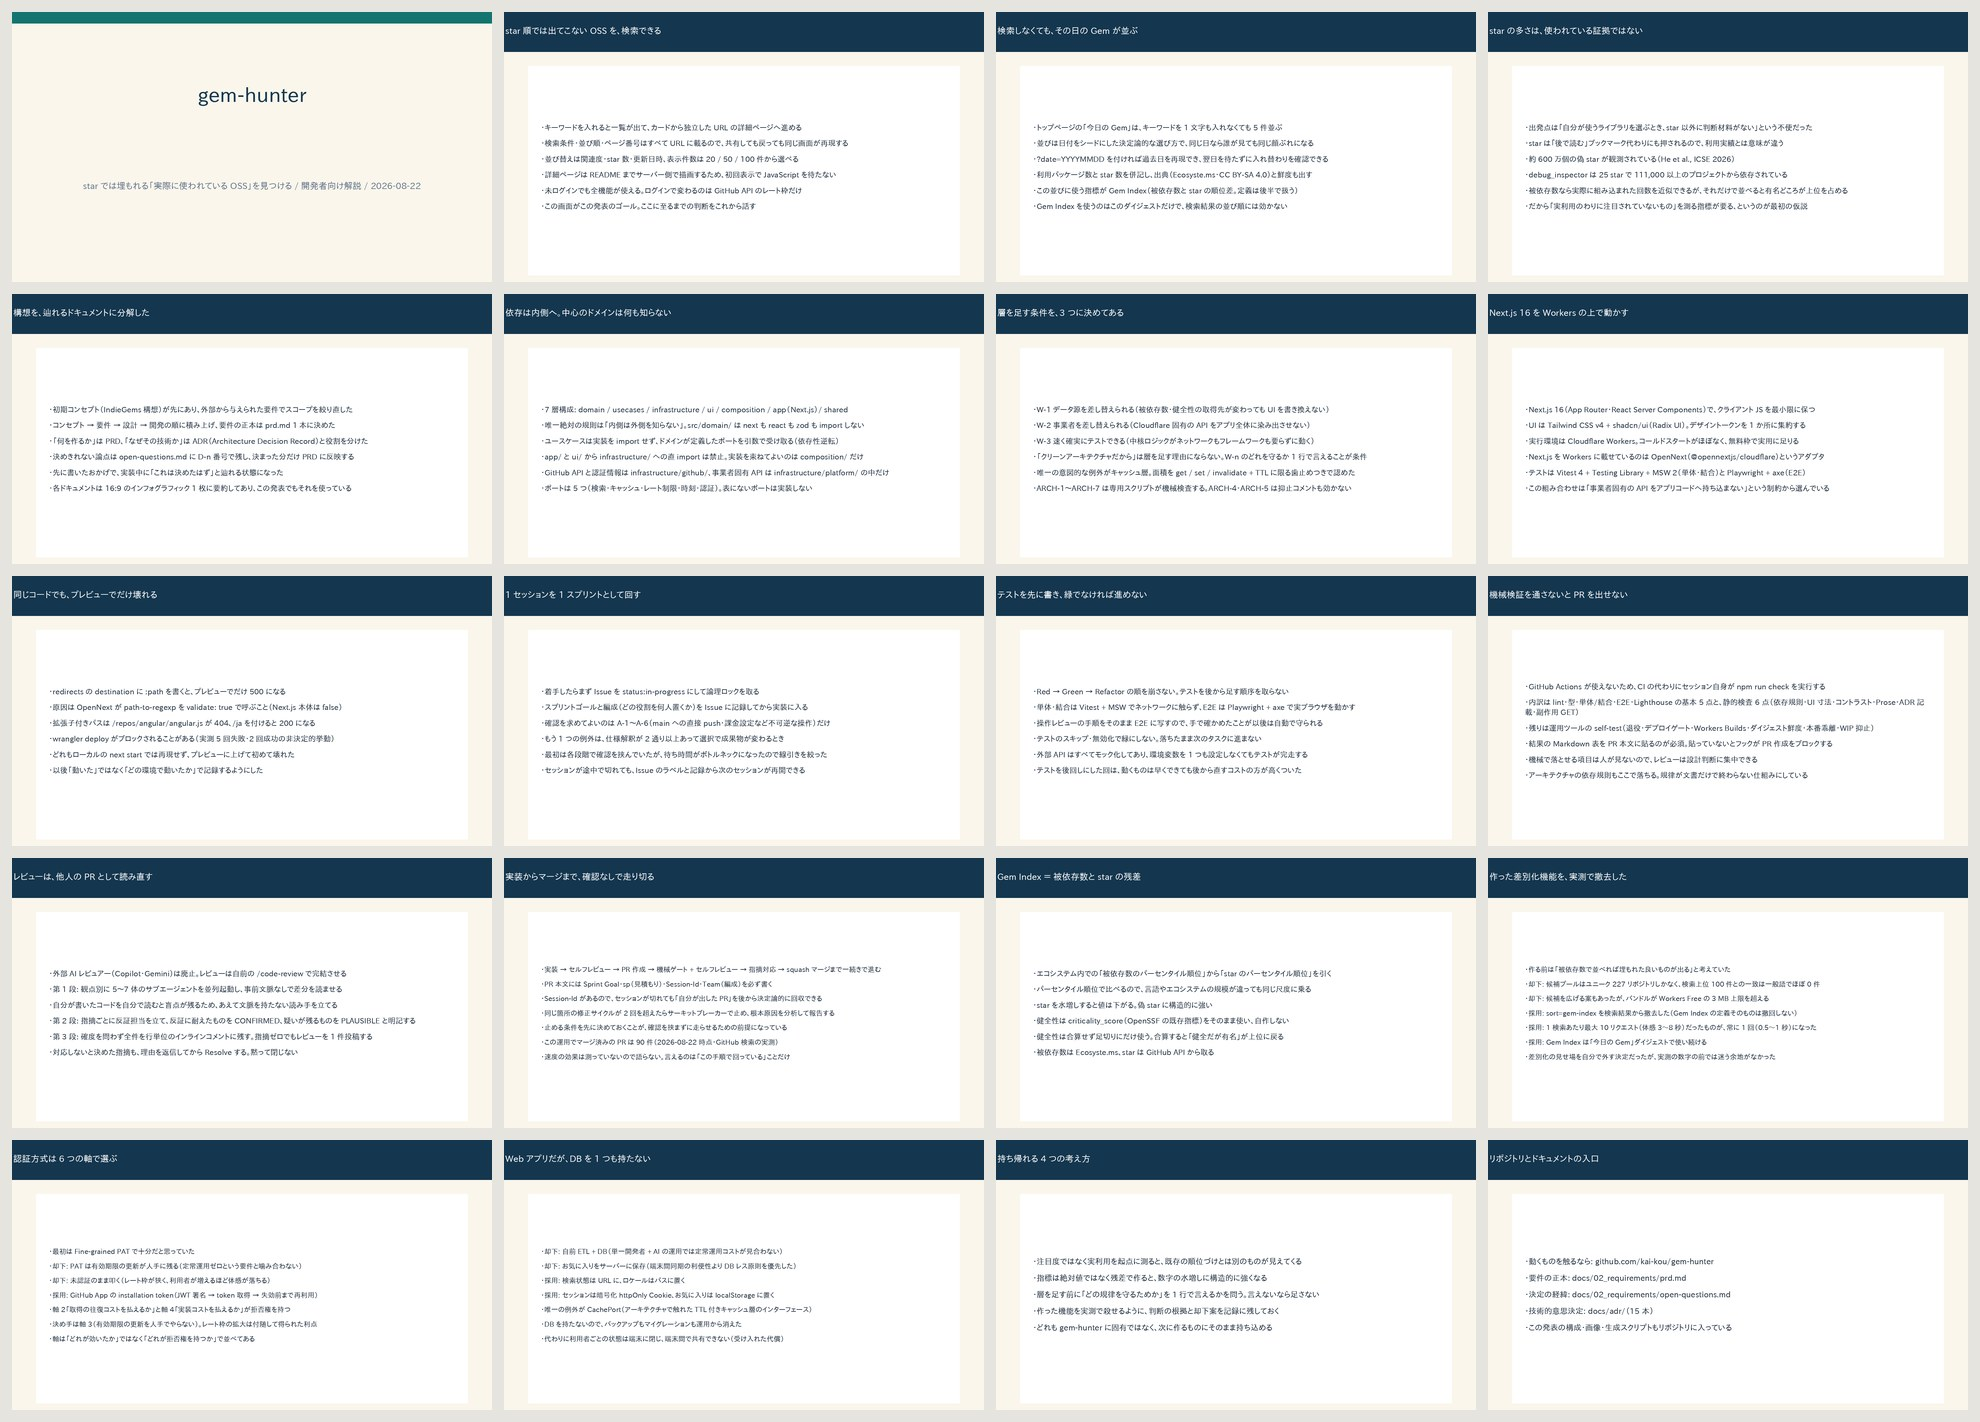
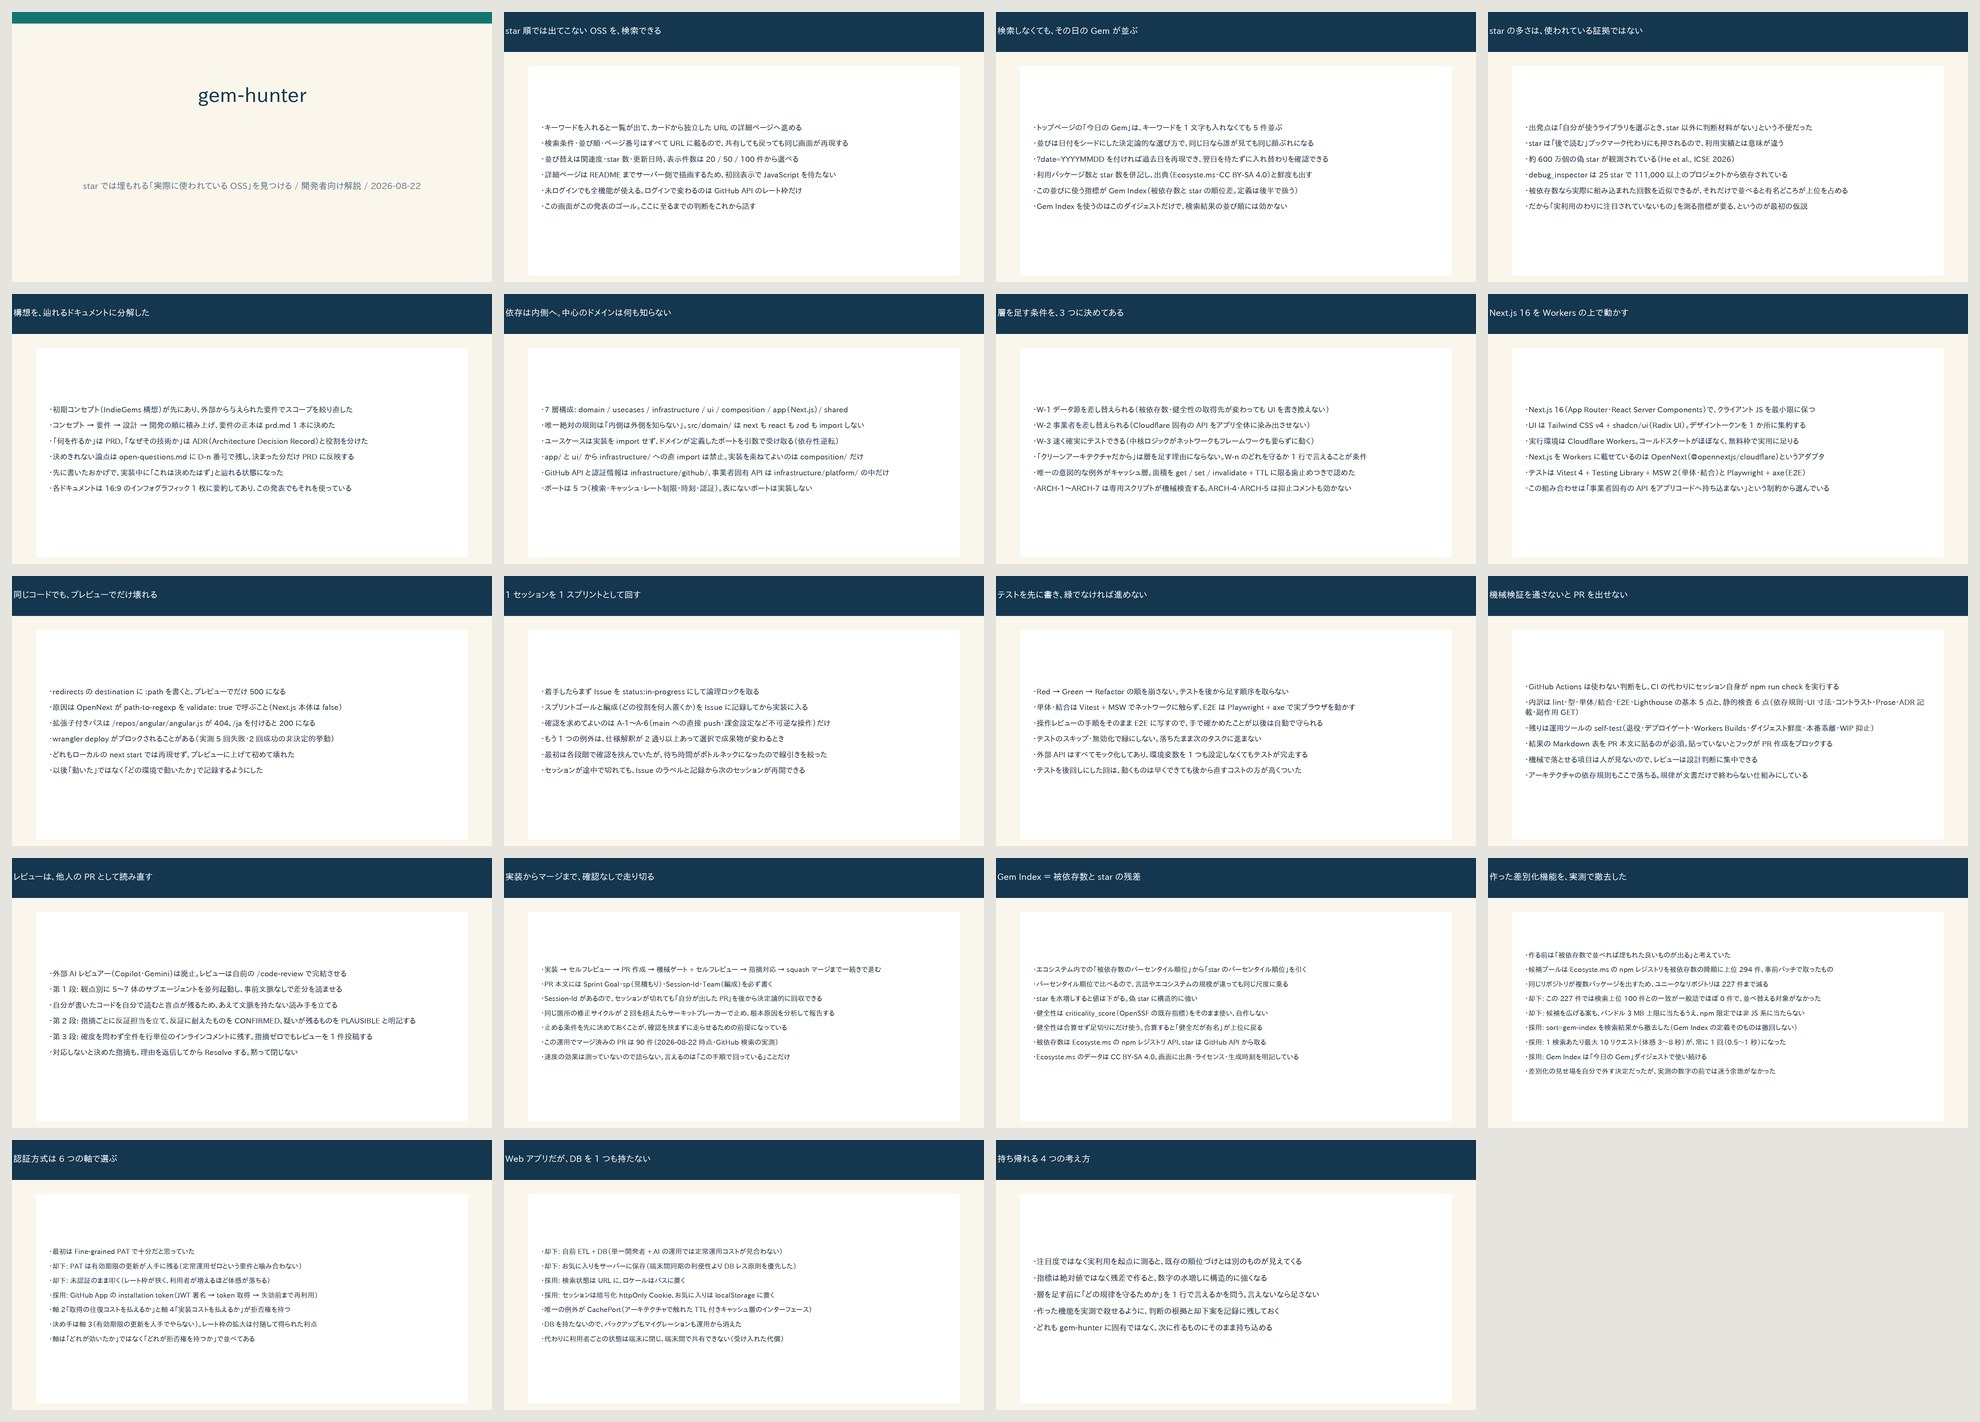
docs: テキスト版スライドにレビュー指摘 3 件を反映する（19 枚）
① GitHub Actions を「使えない」ではなく使わない判断として書く ② 被依存数の取得元（Ecosyste.ms の npm レジストリ API・事前バッチ上位 294 件）を明示し、ユニーク 227 リポジトリという母数がそこから導かれる流れにする ③ 最終ページ（リポジトリとドキュメントの入口）を削除。Google スライドは差し替え済み。

Changed region(s): [[0.7394, 0.8045, 1.0, 0.9902], [0.7702, 0.6498, 0.9242, 0.7736], [0.5237, 0.6807, 0.6778, 0.7426]]

diff --git a/content/slides/project-explanation-20260822/content/slides_content_gem-hunter.md b/content/slides/project-explanation-20260822/content/slides_content_gem-hunter.md
@@ -162,7 +162,7 @@
 
 - 見出し: 機械検証を通さないと PR を出せない
 - 本文:
-  - GitHub Actions が使えないため、CI の代わりにセッション自身が npm run check を実行する
+  - GitHub Actions は使わない判断をし、CI の代わりにセッション自身が npm run check を実行する
   - 内訳は lint・型・単体/結合・E2E・Lighthouse の基本 5 点と、静的検査 6 点（依存規則・UI 寸法・コントラスト・Prose・ADR 記載・副作用 GET）
   - 残りは運用ツールの self-test（退役・デプロイゲート・Workers Builds・ダイジェスト鮮度・本番乖離・WIP 抑止）
   - 結果の Markdown 表を PR 本文に貼るのが必須。貼っていないとフックが PR 作成をブロックする
@@ -210,25 +210,28 @@
   - star を水増しすると値は下がる。偽 star に構造的に強い
   - 健全性は criticality_score（OpenSSF の既存指標）をそのまま使い、自作しない
   - 健全性は合算せず足切りにだけ使う。合算すると「健全だが有名」が上位に戻る
-  - 被依存数は Ecosyste.ms、star は GitHub API から取る
+  - 被依存数は Ecosyste.ms の npm レジストリ API、star は GitHub API から取る
+  - Ecosyste.ms のデータは CC BY-SA 4.0。画面に出典・ライセンス・生成時刻を明記している
 - ビジュアル: 既存流用 docs/infographics/10-gem-score.webp
 - 伝えたい 1 メッセージ: 差別化ロジックの定義（直後の撤去話への助走）
-- 出典: ADR 0009 §2.1 / §3.1 / §3.2 / §3.3
+- 出典: ADR 0009 §2.1 / §2.2 / §3.1 / §3.2 / §3.3 / tools/generate_gem_digest.mjs / src/ui/attribution-notice.tsx
 
 ## Slide 16: 作った差別化機能を、実測で撤去した
 
 - 見出し: 作った差別化機能を、実測で撤去した
 - 本文:
   - 作る前は「被依存数で並べれば埋もれた良いものが出る」と考えていた
-  - 却下: 候補プールはユニーク 227 リポジトリしかなく、検索上位 100 件との一致は一般語でほぼ 0 件
-  - 却下: 候補を広げる案もあったが、バンドルが Workers Free の 3 MB 上限を超える
+  - 候補プールは Ecosyste.ms の npm レジストリを被依存数の降順に上位 294 件、事前バッチで取ったもの
+  - 同じリポジトリが複数パッケージを出すため、ユニークなリポジトリは 227 件まで減る
+  - 却下: この 227 件では検索上位 100 件との一致が一般語でほぼ 0 件で、並べ替える対象がなかった
+  - 却下: 候補を広げる案も、バンドル 3 MB 上限に当たるうえ、npm 限定では非 JS 系に当たらない
   - 採用: sort=gem-index を検索結果から撤去した（Gem Index の定義そのものは撤回しない）
-  - 採用: 1 検索あたり最大 10 リクエスト（体感 3〜8 秒）だったものが、常に 1 回（0.5〜1 秒）になった
+  - 採用: 1 検索あたり最大 10 リクエスト（体感 3〜8 秒）が、常に 1 回（0.5〜1 秒）になった
   - 採用: Gem Index は「今日の Gem」ダイジェストで使い続ける
   - 差別化の見せ場を自分で外す決定だったが、実測の数字の前では迷う余地がなかった
 - ビジュアル: 新規生成 new-06（採用 vs 却下）
 - 伝えたい 1 メッセージ: 技術的課題 1: 測って自分で殺す（この発表の主役・90〜100 秒）
-- 出典: ADR 0009 D-33 追記 / open-questions.md D-33
+- 出典: ADR 0009 D-33 追記 / open-questions.md D-30・D-33 / ADR 0014 §2.6 / tools/generate_gem_digest.mjs
 
 ## Slide 17: 認証方式は 6 つの軸で選ぶ
 
@@ -272,17 +275,4 @@
 - ビジュアル: 新規生成 new-09（まとめ）
 - 伝えたい 1 メッセージ: 聴衆が自分の現場で使えるもの（主題の回収）
 - 出典: ADR 0009 / application-architecture.md W-1〜W-3 / open-questions.md D-33 / project-mission.md
-
-## Slide 20: リポジトリとドキュメントの入口
-
-- 見出し: リポジトリとドキュメントの入口
-- 本文:
-  - 動くものを触るなら: github.com/kai-kou/gem-hunter
-  - 要件の正本: docs/02_requirements/prd.md
-  - 決定の経緯: docs/02_requirements/open-questions.md
-  - 技術的意思決定: docs/adr/（15 本）
-  - この発表の構成・画像・生成スクリプトもリポジトリに入っている
-- ビジュアル: 新規生成 new-10（クロージング）
-- 伝えたい 1 メッセージ: 次に読むもの・触るもの
-- 出典: README.md / docs/README.md / content/slides/project-explanation-20260822/
 

diff --git a/content/slides/project-explanation-20260822/references/google-slides-upload.md b/content/slides/project-explanation-20260822/references/google-slides-upload.md
@@ -60,9 +60,15 @@ URL は `https://docs.google.com/presentation/d/<FILE_ID>/edit`。
 
 同名で作り直すと重複するので、`gws drive files delete` で既存を消してから作り直す（参照ワークフロー Step 7 / 13 と同じ）。
 
+```bash
+gws drive files delete --params '{"fileId":"<OLD_FILE_ID>"}'
+```
+
+⚠ `files delete` は成功時にレスポンス本体が空で、`gws` が **カレントディレクトリに `download.html` を書き出す**（`"saved_file": "download.html"`）。実害はないが作業ツリーが汚れるので、実行後に消す。
+
 ## 現在の成果物
 
 | 版 | ファイル ID | URL |
 |---|---|---|
-| テキスト版 | `1QfTwVmjgxn0cfDUYI8xTVUhwzvUDbox90Af_nq9WKQs` | https://docs.google.com/presentation/d/1QfTwVmjgxn0cfDUYI8xTVUhwzvUDbox90Af_nq9WKQs/edit |
+| テキスト版 | `1uEk0V-YowdUY8hKU7yliTBfaQoppBLS3710pGt9r10g` | https://docs.google.com/presentation/d/1uEk0V-YowdUY8hKU7yliTBfaQoppBLS3710pGt9r10g/edit |
 | 画像版 | （未作成・Step 9 以降） | — |

diff --git a/content/slides/project-explanation-20260822/references/README.md b/content/slides/project-explanation-20260822/references/README.md
@@ -58,5 +58,6 @@
 | Step 3 テキスト版作成 | 完了（`output/gem-hunter_text.pptx`・20 枚） |
 | Step 4 テキスト版セルフレビュー | 完了（`verify_text_pptx.py` で全文言の反映を機械照合・描き起こしで目視確認） |
 | Step 5 アップロード | 完了（Google スライド化。手順は `google-slides-upload.md`） |
-| Step 6 テキスト版ユーザーレビュー | **承認待ち** |
+| Step 6 テキスト版ユーザーレビュー | 実施（フィードバック 3 件） |
+| Step 7 フィードバック反映 | 完了（GitHub Actions の表現・被依存数の取得元と母数・最終ページ削除で 19 枚） |
 | Step 9 以降（画像版） | Step 6 の承認後に着手する |
